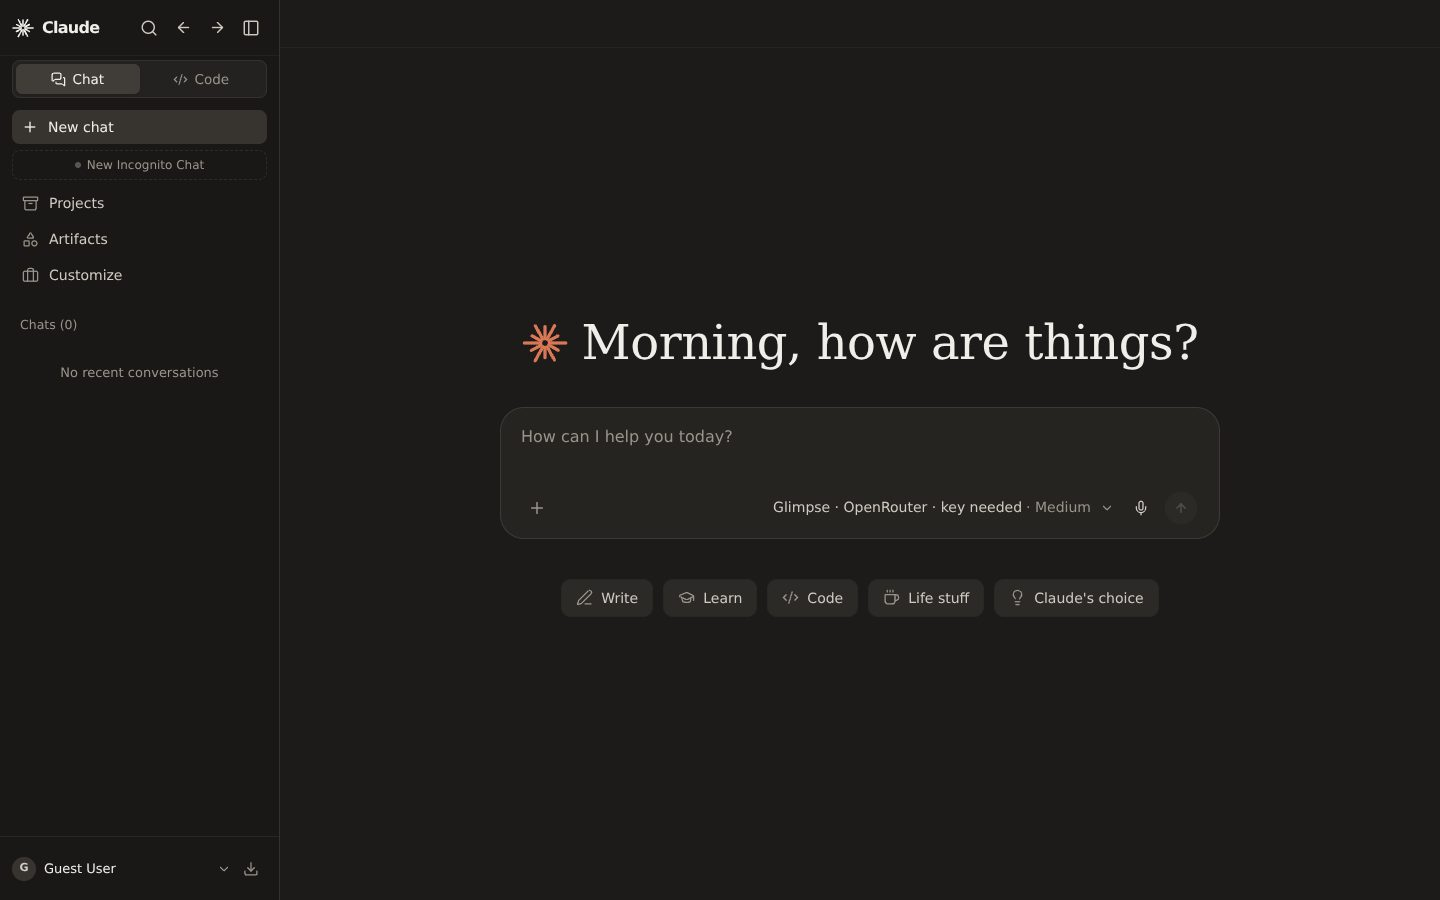
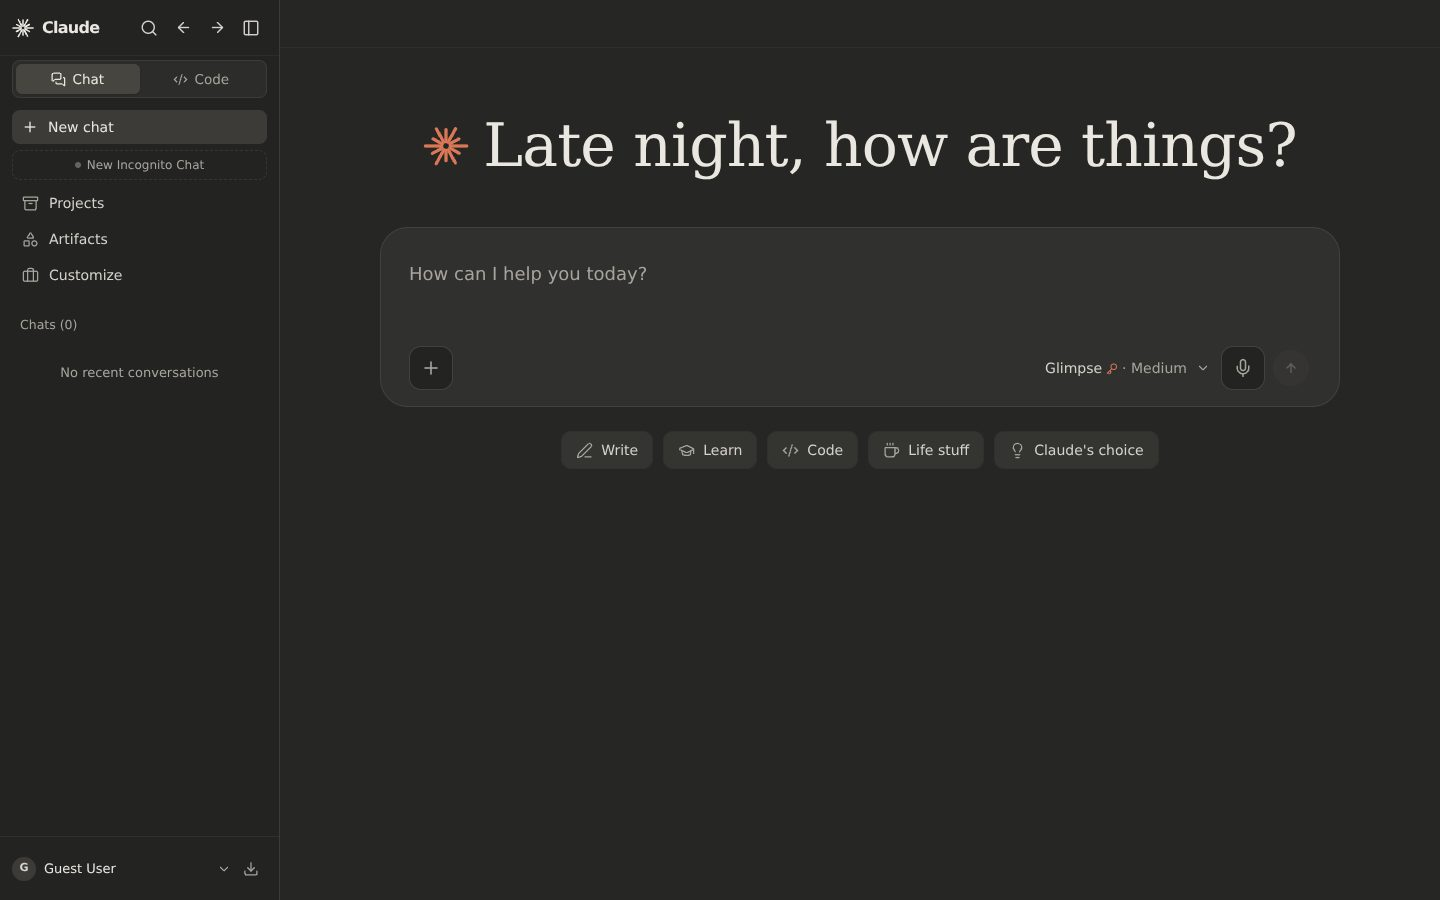
Polish Claude-inspired chat UI

diff --git a/src/components/Composer.tsx b/src/components/Composer.tsx
@@ -197,7 +197,12 @@ export default function Composer({
 
       <DragOverlay isDragging={isDragging} />
 
-      <div className="composer-surface mx-auto flex min-h-[132px] w-full max-w-[720px] flex-col rounded-[24px] border px-5 pb-3 pt-4">
+      <div
+        className={cn(
+          "composer-surface mx-auto flex w-full max-w-full flex-col rounded-[28px] border",
+          inChatView ? "min-h-[132px] px-5 pb-3 pt-4" : "min-h-[180px] px-7 pb-4 pt-8"
+        )}
+      >
         <QuoteBanner activeQuote={activeQuote} onClear={() => setActiveQuote?.(null)} />
 
         <AttachmentChips attachments={attachments} onRemove={removeAttachment} />
@@ -213,7 +218,8 @@ export default function Composer({
           disabled={isOffline}
           aria-label="Message Claude"
           className={cn(
-            "max-h-44 w-full resize-none overflow-y-auto bg-transparent text-[16px] leading-[1.6] text-ink placeholder:text-ink-muted focus:outline-none scroll-slim",
+            "max-h-44 w-full resize-none overflow-y-auto bg-transparent leading-[1.6] text-ink placeholder:text-ink-muted focus:outline-none scroll-slim",
+            inChatView ? "text-[16px]" : "text-[18px]",
             isOffline && "cursor-not-allowed opacity-60"
           )}
         />
@@ -230,14 +236,17 @@ export default function Composer({
           />
 
           <div className="relative flex items-center gap-1.5">
-            <ModelMenu model={model} onSelectModel={setModel} effort={effort} onSelectEffort={setEffort} />
+            <ModelMenu model={model} onSelectModel={setModel} effort={effort} onSelectEffort={setEffort} homeView={!inChatView} />
 
             <IconButton
               label={micOn ? "Stop dictation" : "Dictate"}
               onClick={toggleMic}
-              className={cn("rounded-full", micOn && "anim-mic text-accent hover:text-accent")}
+              className={cn(
+                "h-11 w-11 rounded-xl border border-composer-line bg-panel text-ink-muted hover:bg-elev-2 hover:text-ink",
+                micOn && "anim-mic border-accent/40 bg-accent/10 text-accent hover:text-accent"
+              )}
             >
-              <Mic size={16} strokeWidth={1.9} />
+              <Mic size={20} strokeWidth={1.8} />
             </IconButton>
 
             {isStreaming ? (
@@ -245,7 +254,7 @@ export default function Composer({
                 type="button"
                 onClick={onStop}
                 title="Stop generation"
-                className="inline-flex h-9 w-9 items-center justify-center rounded-full bg-accent text-white shadow-sm transition-all duration-150 hover:opacity-90 scale-100"
+                className="inline-flex h-10 w-10 items-center justify-center rounded-full bg-accent text-white shadow-sm transition-all duration-150 hover:opacity-90 scale-100"
               >
                 <Square size={13} fill="currentColor" strokeWidth={0} />
               </button>
@@ -256,7 +265,7 @@ export default function Composer({
                 disabled={!hasContent || isOffline}
                 title={isOffline ? "You are offline." : (hasContent ? "Send message" : "Type a message")}
                 className={cn(
-                  "inline-flex h-9 w-9 items-center justify-center rounded-full transition-all duration-150 focus-visible:outline-none focus-visible:ring-2 focus-visible:ring-accent/50",
+                  "inline-flex h-10 w-10 items-center justify-center rounded-full transition-all duration-150 focus-visible:outline-none focus-visible:ring-2 focus-visible:ring-accent/50",
                   hasContent && !isOffline
                     ? "bg-accent text-white shadow-sm hover:opacity-90 scale-100 opacity-100 cursor-pointer"
                     : "bg-elev-3 text-ink-muted opacity-40 scale-90 cursor-not-allowed pointer-events-none"

diff --git a/src/components/composer/ModelMenu.tsx b/src/components/composer/ModelMenu.tsx
@@ -27,9 +27,10 @@ interface Props {
   effort: Effort;
   onSelectEffort: (e: Effort) => void;
   onOpenStateChange?: (open: boolean) => void;
+  homeView?: boolean;
 }
 
-export default function ModelMenu({ model, onSelectModel, effort, onSelectEffort, onOpenStateChange }: Props) {
+export default function ModelMenu({ model, onSelectModel, effort, onSelectEffort, onOpenStateChange, homeView = false }: Props) {
   const [isOpen, setIsOpen] = useState(false);
   const [activeIndex, setActiveIndex] = useState(-1);
   const [scrollTop, setScrollTop] = useState(0);
@@ -41,7 +42,6 @@ export default function ModelMenu({ model, onSelectModel, effort, onSelectEffort
     allModels, sections, activeModelObj, pillLabel, searchQuery, setSearchQuery,
     vendorFilter, setVendorFilter, freeOnly, setFreeOnly, availableVendors, loading, refresh,
   } = useComposerModels(model);
-
 
   useProviderConnectAutoSelect({
     allModels,
@@ -170,8 +170,8 @@ export default function ModelMenu({ model, onSelectModel, effort, onSelectEffort
         title={activeModelObj ? `${activeModelObj.providerLabel}${activeModelObj.requiresKey ? " · API key needed" : ""}` : undefined}
         className="flex h-8 items-center gap-1 rounded-md pe-1 ps-2 transition-colors duration-150 hover:bg-elev-2 focus-visible:outline-none focus-visible:ring-2 focus-visible:ring-accent/50 cursor-pointer"
       >
-        <span className="text-[14px] font-medium text-ink-soft">{pillLabel}{activeModelObj?.requiresKey && <Key size={12} aria-hidden="true" className="ms-1 text-accent" />}</span>
-        <span className="text-[14px] text-ink-muted">· {effort}</span>
+        <span className="whitespace-nowrap text-[14px] font-medium text-ink-soft">{pillLabel}{activeModelObj?.requiresKey && <Key size={12} aria-hidden="true" className="ms-1 inline-block text-accent" />}</span>
+        <span className="whitespace-nowrap text-[14px] text-ink-muted">· {effort}</span>
       </button>
 
       <button
@@ -187,7 +187,7 @@ export default function ModelMenu({ model, onSelectModel, effort, onSelectEffort
         <div
           role="menu"
           onKeyDown={handleKeyDown}
-          className="anim-popover-in absolute bottom-full right-0 z-45 mb-2 w-80 max-h-[min(520px,calc(100vh-140px))] flex flex-col rounded-xl border border-line bg-elev-1 shadow-[0_16px_36px_rgba(0,0,0,0.5)] overflow-hidden"
+          className={cn("anim-popover-in absolute right-0 z-45 w-80 flex flex-col rounded-xl border border-line bg-elev-1 shadow-[0_16px_36px_rgba(0,0,0,0.5)] overflow-hidden", homeView ? "top-full mt-7 max-h-[min(372px,calc(100vh-420px))]" : "bottom-full mb-2 max-h-[min(520px,calc(100vh-140px))]")}
         >
           <div className="p-2 border-b border-line shrink-0 bg-elev-1">
             <div className="relative">

diff --git a/src/components/chat/HomeHero.tsx b/src/components/chat/HomeHero.tsx
@@ -55,10 +55,10 @@ export const HomeHero: React.FC<Props> = ({
       className={`transition-all duration-400 ease-[cubic-bezier(0.22,1,0.36,1)] ${
         inChatView
           ? "max-h-0 opacity-0 overflow-hidden pointer-events-none -translate-y-4"
-          : "flex flex-1 flex-col items-center justify-center pt-8 pb-12 opacity-100 translate-y-0"
+          : "flex flex-1 flex-col items-center justify-start pt-[clamp(64px,7vh,80px)] pb-12 opacity-100 translate-y-0"
       }`}
     >
-      <h1 className="anim-rise flex flex-col sm:flex-row items-center justify-center gap-3 sm:gap-3.5 text-center font-serif text-[clamp(28px,4.5vw,48px)] font-normal leading-[1.15] tracking-[-0.01em] text-ink">
+      <h1 className="anim-rise flex flex-col sm:flex-row items-center justify-center gap-3 sm:gap-3.5 text-center font-serif text-[clamp(32px,4.8vw,60px)] font-normal leading-[1.12] tracking-[-0.015em] text-ink">
         <ClaudeSpark size={46} className="shrink-0 text-accent mb-1 sm:mb-0" />
         <span className="break-words max-w-[90vw] sm:max-w-none">{greetingText}</span>
       </h1>
@@ -73,7 +73,7 @@ export const HomeHero: React.FC<Props> = ({
 
       {/* Composer centered on Home View */}
       {!inChatView && (
-        <div className="mt-9 w-full max-w-[720px]">
+        <div className="mt-12 w-full max-w-[960px]">
           <Composer
             onSend={onSend}
             onStop={onStop}
@@ -85,7 +85,7 @@ export const HomeHero: React.FC<Props> = ({
 
       {/* First-run Memory Card */}
       {!inChatView && showFirstRunCard && (
-        <div className="mt-8 w-full max-w-[720px] rounded-xl border border-line bg-elev-1 p-4 shadow-sm animate-fade-in font-sans">
+        <div className="mt-8 w-full max-w-[960px] rounded-xl border border-line bg-elev-1 p-4 shadow-sm animate-fade-in font-sans">
           <div className="flex items-start gap-3">
             <div className="flex h-9 w-9 shrink-0 items-center justify-center rounded-lg bg-accent/10 text-accent">
               <ClaudeSpark size={18} />

diff --git a/src/index.css b/src/index.css
@@ -12,24 +12,24 @@
   --font-sans: "Inter", ui-sans-serif, system-ui, -apple-system, "Segoe UI", sans-serif;
   --font-serif: "Source Serif 4", "Iowan Old Style", "Georgia", "Times New Roman", serif;
 
-  --color-shell: #1a1918;
-  --color-panel: #141413;
-  --color-line: #30302e;
-  --color-line-soft: #242321;
+  --color-shell: #262624;
+  --color-panel: #232321;
+  --color-line: #3b3b38;
+  --color-line-soft: #30302e;
 
-  --color-elev-1: #1f1f1d;
-  --color-elev-2: #282826;
-  --color-elev-3: #323230;
-  --color-elev-4: #3d3b38;
-  --color-composer: #201f1d;
-  --color-composer-line: #393733;
-  --color-preview-canvas: #141413;
-  --color-code-surface: #171715;
+  --color-elev-1: #2c2c2a;
+  --color-elev-2: #343431;
+  --color-elev-3: #3c3b38;
+  --color-elev-4: #474540;
+  --color-composer: #30302e;
+  --color-composer-line: #41413e;
+  --color-preview-canvas: #20201e;
+  --color-code-surface: #222220;
 
-  --color-ink: #f5f3ec;
+  --color-ink: #e9e7df;
   --color-ink-soft: #d5d2cb;
-  --color-ink-muted: #a5a29a;
-  --color-ink-faint: #79766f;
+  --color-ink-muted: #a7a49c;
+  --color-ink-faint: #7f7c74;
 
   --color-accent: #d97757;
   --color-accent-hover: #e38261;

diff --git a/src/components/modals/SettingsModal.tsx b/src/components/modals/SettingsModal.tsx
@@ -130,7 +130,7 @@ export default function SettingsModal() {
                   {[
                     { id: "light", label: "Light", desc: "Warm paper", bg: "bg-[#faf9f5]", icon: <Sun size={18} /> },
                     { id: "system", label: "System", desc: "Match device", bg: "bg-elev-2", icon: <Monitor size={18} /> },
-                    { id: "dark", label: "Dark", desc: "Warm charcoal", bg: "bg-[#141413]", icon: <Moon size={18} /> },
+                    { id: "dark", label: "Dark", desc: "Warm charcoal", bg: "bg-[#262624]", icon: <Moon size={18} /> },
                   ].map(t => (
                     <button key={t.id} type="button" onClick={() => updatePreferences({ theme: t.id as "system" | "light" | "dark" })} className={`flex flex-col items-start rounded-xl border p-3 text-start transition-all cursor-pointer ${preferences.theme === t.id ? "border-accent bg-elev-2 ring-1 ring-accent" : "border-line bg-elev-1 hover:border-line-soft"}`}>
                       <div className={`flex h-9 w-9 items-center justify-center rounded-lg ${t.bg} text-accent mb-3 border border-line`}>{t.icon}</div>

diff --git a/tests/themeTokens.test.ts b/tests/themeTokens.test.ts
@@ -24,7 +24,9 @@ describe("Claude appearance tokens", () => {
   });
 
   it("uses Claude's warm paper, charcoal, and terracotta palette", () => {
-    expect(darkTheme).toContain("--color-panel: #141413");
+    expect(darkTheme).toContain("--color-shell: #262624");
+    expect(darkTheme).toContain("--color-panel: #232321");
+    expect(darkTheme).toContain("--color-composer: #30302e");
     expect(lightTheme).toContain("--color-shell: #faf9f5");
     expect(lightTheme).toContain("--color-accent: #c96442");
     expect(lightTheme).toContain("--color-preview-canvas:");

diff --git a/src/components/composer/SuggestionPanel.tsx b/src/components/composer/SuggestionPanel.tsx
@@ -123,7 +123,7 @@ export const SuggestionPanel: React.FC<Props> = ({
       {/* Suggestion chips (only on Home view) */}
       {!inChatView && (
         <div
-          className="anim-rise mx-auto mt-10 flex max-w-[720px] flex-wrap items-center justify-center gap-2.5 px-4 font-sans"
+          className="anim-rise mx-auto mt-6 flex max-w-[960px] flex-wrap items-center justify-center gap-2.5 px-4 font-sans"
           style={{ animationDelay: "220ms" }}
         >
           {SUGGESTIONS.map(({ label, icon: Icon, starter, examples }) => (

diff --git a/src/components/composer/PlusMenu.tsx b/src/components/composer/PlusMenu.tsx
@@ -79,9 +79,9 @@ export default function PlusMenu({
       <IconButton
         label="Add content"
         onClick={toggleMenu}
-        className="h-8 w-8 text-ink-muted hover:text-ink"
+        className="h-11 w-11 rounded-xl border border-composer-line bg-panel text-ink-muted hover:bg-elev-2 hover:text-ink"
       >
-        <Plus size={18} strokeWidth={2} />
+        <Plus size={20} strokeWidth={1.9} />
       </IconButton>
 
       {isOpen && (
